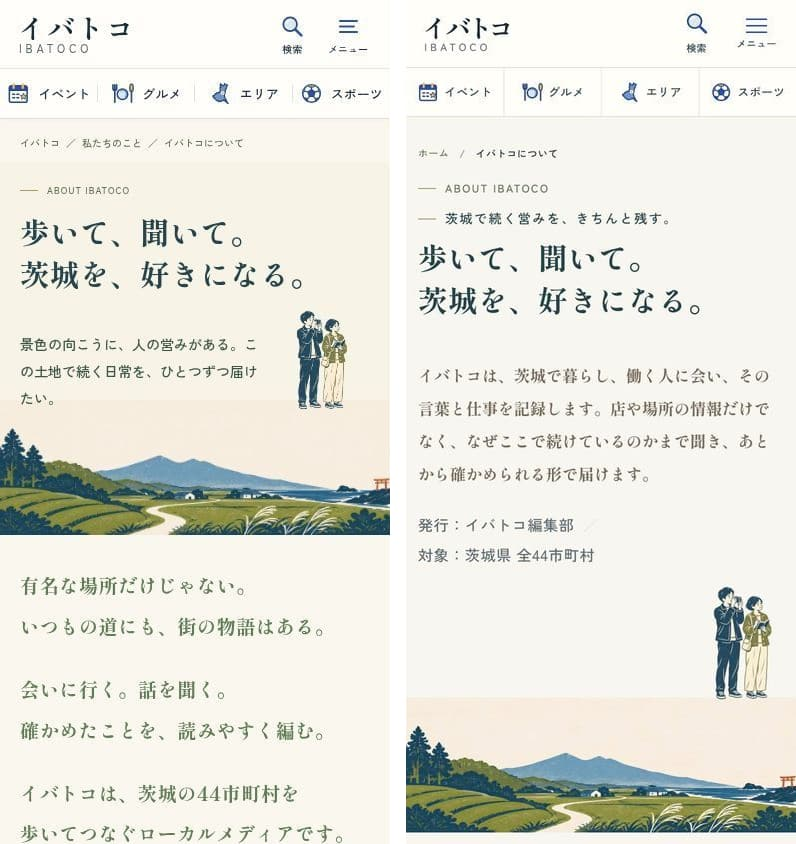
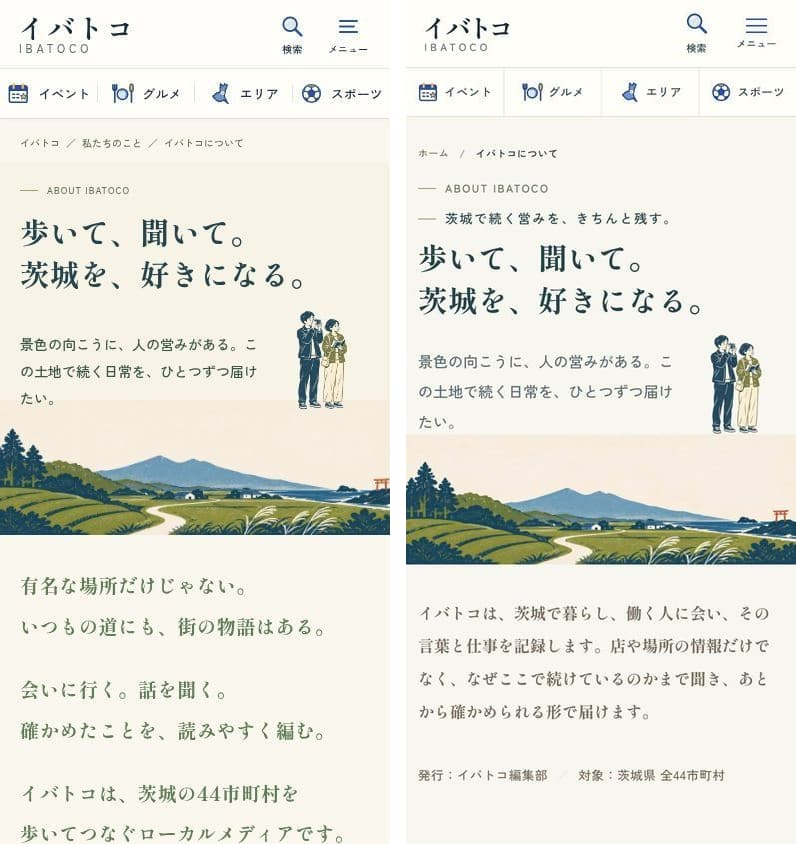
design: match v42 hero order on about and food library
- about: tagline and illustration side by side, landscape at the bottom; long intro and byline moved right after the hero (text unchanged)
- food library: tagline then framed illustration; long intro and index moved right after the hero (text and links unchanged)
- refresh 390px/1440px comparison images and record measured offsets

Changed region(s): [[0.5126, 0.4005, 1.0, 0.9858]]

diff --git a/src/styles/v42.css b/src/styles/v42.css
@@ -527,12 +527,36 @@ body.interior-site .team-head > .policy-updated { margin-top: .6rem; }
 
 /* about（about.html）：冒頭の下端に版画調の茨城の風景（提出版 .p41-brand-hero）。取材と編集の3項目は薄い緑の段に */
 body.interior-site .about-head {
-  /* 風景は幅いっぱい（縦横比 3:1）。文字に重ならない高さだけ下を空ける */
-  padding-bottom: calc(min(100vw, 1440px) * .28) !important;
+  /* 風景は幅いっぱい（縦横比 3:1）。提出版どおり、空の部分が一文の下に入る高さだけ下を空ける */
+  padding-bottom: calc(min(100vw, 1440px) * .25) !important;
   background: url(/images/v42/ibarakiscape.webp) center bottom / 100% auto no-repeat !important;
 }
+body.interior-site .about-head .ab-tagline br { display: none; }
+/* タブレット幅は一文が2行になるので、木の上に文字が乗らないよう風景の分だけ空ける */
+@media (min-width: 761px) and (max-width: 1023px) {
+  body.interior-site .about-head { padding-bottom: calc(100vw * .32) !important; }
+}
 @media (max-width: 760px) {
-  body.interior-site .about-head { padding-bottom: 130px !important; background-size: auto 135px !important; }
+  /* 提出版（.v42-hero-compact）：表示コピーは全幅、その下に一文と二人の挿絵を左右に並べ、下端に風景 */
+  body.interior-site .about-head.v42-hero {
+    grid-template-columns: minmax(0, 1fr) clamp(76px, 24vw, 115px) !important;
+    column-gap: 15px;
+    align-items: end;
+    padding-bottom: 128px !important;
+    background-size: 100% auto !important;
+  }
+  body.interior-site .about-head > * { grid-column: 1 / -1; }
+  body.interior-site .about-head > .ab-tagline { grid-column: 1; margin: 0; font-size: 14px; line-height: 1.94; }
+  body.interior-site .about-head > .v42-hero__art {
+    grid-column: 2;
+    grid-row: auto;
+    order: 0;
+    width: 100%;
+    max-width: none;
+    height: clamp(85px, 27vw, 116px);
+    max-height: none;
+    margin: 0;
+  }
 }
 body.interior-site .ab-process > .bp-wrap { padding-block: clamp(2.6rem, 4.6vw, 3.4rem); }
 body.interior-site .ab-policies { background: transparent !important; }

diff --git a/docs/design/V42_FIDELITY_515.md b/docs/design/V42_FIDELITY_515.md
@@ -18,7 +18,7 @@
 
 | 種別（URL） | 提出デザインとの差 | 直したこと | 確認 |
 |---|---|---|---|
-| about（/about/） | 見出しの一文・挿絵・下の風景は一致。発行・対象の行がスマホで「市／町村」の途中で折れていた | 表示コピー「歩いて、聞いて。茨城を、好きになる。」、取材の二人の挿絵、風景（ibarakiscape）、OUR BELIEF を中央の一文に。装飾の 44市町村の地図は提出版にないので外した（地図データ・TOP・エリアの地図は変更なし）。発行・対象は項目ごとに1行に保つ | 320〜1440px ではみ出し・1文字行なし |
+| about（/about/） | 冒頭は提出版と同じ並び（表示コピー → 一文と二人の挿絵を左右 → 下端に風景）。差は H1 のラベル1行ぶん（下記の実測） | 提出版の一文「景色の向こうに、人の営みがある。この土地で続く日常を、ひとつずつ届けたい。」を冒頭に置き、既存の説明（イバトコは、茨城で暮らし…）と発行・対象の行は冒頭のすぐ後へ移した（文言は変更なし）。スマホは一文と挿絵を左右に、風景は全幅 3:1。タブレット幅（761〜1023px）は一文が木に重ならないよう下を空けた。装飾の 44市町村の地図は提出版にないので外した（地図データ・TOP・エリアの地図は変更なし） | 下記「about・図鑑一覧の実測」。320〜1440px ではみ出し・1文字行なし |
 | 運営・チーム（/about/team/） | 一致 | 表示コピー「茨城の話を、届ける人。」、地図を広げる二人の挿絵 | 同上 |
 | 方針4ページ（編集方針・PR・訂正・プライバシー） | 一致。提出版の目次はページ内リンク | 目次（CONTENTS）と本文の2列。各見出しに `id="sec-N"` を付けて目次から移動 | スマホで目次から移動し、見出しがヘッダーの 16px 下に着地 |
 | reporters（/reporters/） | 提出版は冒頭のあとすぐ「こんな関わり方から。」の緑の段。この PR は既存の説明・無償協力の注記・2つのボタンを冒頭に残した | 表示コピー「あなたの「いつも」を、誰かのよりみちに。」、挿絵、関わり方の段を緑に | 無償であることの注記は事実なので削らない |
@@ -28,9 +28,24 @@
 | テーマ一覧（/odekake/） | 提出版は風景の挿絵、絞り込みボタン、写真の特集1本。この PR は既存の「自然・季節・目的」の入口を紙カードで並べた。H1「今日は、どこへ行こう。」は既存のまま（提出版は「今日は、景色に会いに。」） | 冒頭・紙カード・緑の地域段 | カード右下の「→」は位置固定の飾りで、本文と重ならないことを確認。**判断が必要**：絞り込みと特集を足すか |
 | テーマの個別ページ（/umi/ など） | 写真の左右分割の見出しは既存のまま | 見出しの色・太さのみ | 変更なし |
 | 記事準備中カテゴリ（/life/ ほか） | 提出版は冒頭のすぐ後に「こんな入口も、あります。」。この PR は既存のカテゴリ切替・FIELD NOTE・既存の記事リンクを残し、その後に入口を置いた | 表示コピー「この土地の話を、少しずつ。」、入口2件（/area/・/food-library/、イメージイラストと明記） | 該当ページは noindex のまま |
-| おいしい図鑑一覧（/food-library/） | 提出版は8つの無地カード。この PR は既存の写真付きの一覧を残した | 表示コピー「知るほど、おいしくなる。」、干し芋の挿絵、図鑑の挿絵（encyclopedia）を冒頭の下に | スマホで「産地から探す」→ `#origin` がヘッダーの 16px 下 |
+| おいしい図鑑一覧（/food-library/） | 冒頭は提出版と同じ並び（表示コピー → 一文 → 額装の干し芋の挿絵 → 開いた図鑑の版画）。差は位置が下にずれること（下記の実測）と、一覧が既存の写真付きのままなこと（提出版は無地8枚） | 提出版の一文「品種、産地、つくる人。食べものから、茨城の土地をひらく。」を冒頭に置き、既存の説明（霞ヶ浦のれんこん…）と索引（旬・産地・品種から探す）は冒頭のすぐ後へ移した（文言・リンク先は変更なし） | 下記「about・図鑑一覧の実測」。スマホで「産地から探す」→ `#origin` がヘッダーの 16px 下 |
 | 各図鑑（/hoshiimo/ ほか） | 提出版の一文は干し芋専用。既存の H1 と写真の見出しを残した。目次の箱は足していない | 図鑑の配色を v42 に（食材ごとの差し色は既存） | 変更なし |
 | today（/today/） | 提出デザインに該当画面がない | 冒頭の配色と挿絵だけ | `pc-today.jpg`・`sp-today.jpg` |
+
+## about・図鑑一覧の実測（スマホ 390px、ページ上端からの px）
+
+比較画像は `compare-about-sp.jpg`・`compare-food-library-sp.jpg`（PC は `-pc.jpg`）。提出版の値は `rendered/*-mobile.jpg` を 390px 幅で読んだもの。
+
+| 要素 | 提出版 about | この PR about | 提出版 図鑑一覧 | この PR 図鑑一覧 |
+|---|---:|---:|---:|---:|
+| 表示コピーの上端・字の大きさ | 約218・約30px | 236・29.5px | 約205・約30px | 261・29.5px |
+| 冒頭の一文の上端 | 約335 | 346 | 約300 | 361 |
+| 挿絵（上端・幅×高さ） | 約310・約95×100（一文の右） | 331・94×105（一文の右） | 約365・350×160 | 446・352×200 |
+| 冒頭の下端（風景・図鑑の版画まで） | 約535 | 564 | 約665 | 762 |
+
+- about：並び・字の大きさ・挿絵の大きさと位置（一文の右）は一致。全体が 20〜30px 下にあるのは、H1「茨城で続く営みを、きちんと残す。」を小さなラベルとして表示コピーの上に残しているため。風景は 3:1 の全幅で、提出版より約 25px 高い。
+- 図鑑一覧：並びと字の大きさは一致。約 60px 下にあるのは、パンくずの下線と H1「茨城のおいしい図鑑」のラベル行のため。挿絵は縦横比を切らずに全体を見せているので提出版より 40px 高い。「一致」とはせず、この差を残している。
+- PC（1440px）：about は一文が風景の空の部分に入り、二人の挿絵が右。図鑑一覧は左に文字・右に額装の挿絵、下端に図鑑の版画。どちらも提出版と同じ配置。
 
 ## 変えていないもの
 
